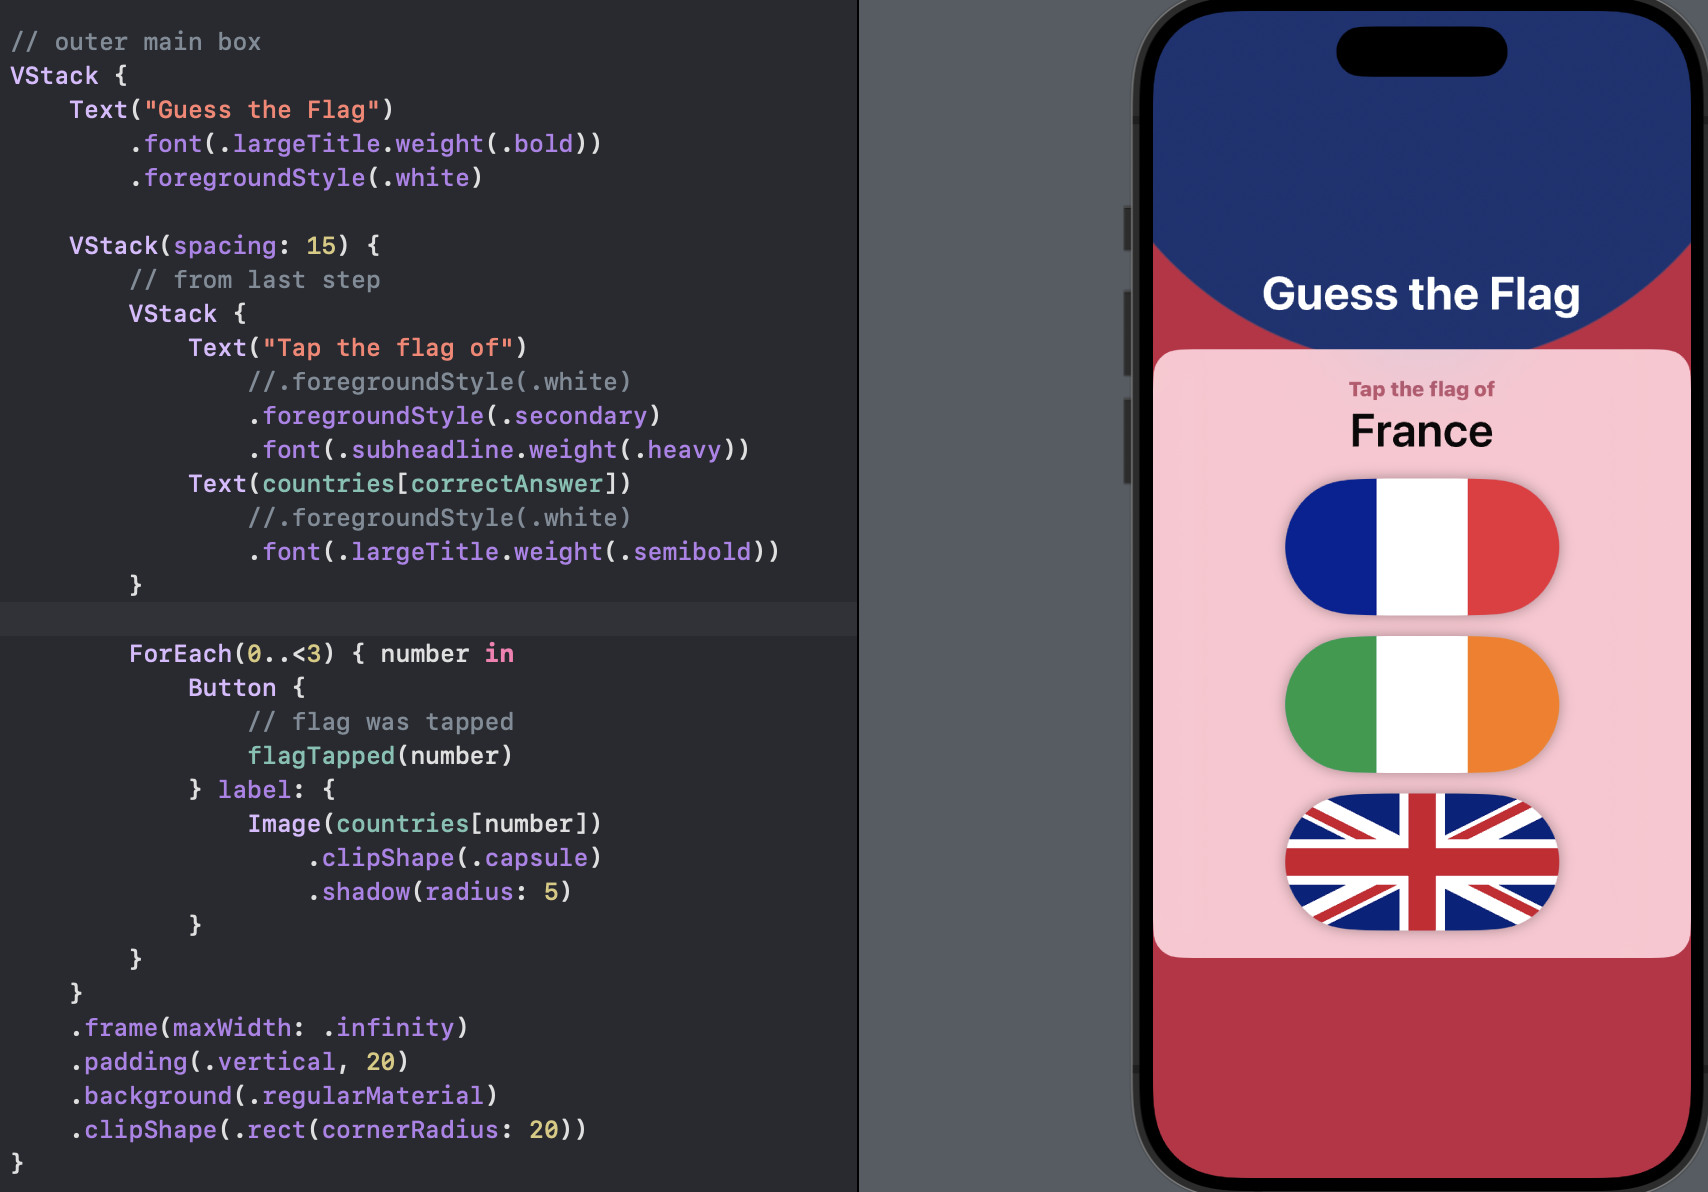
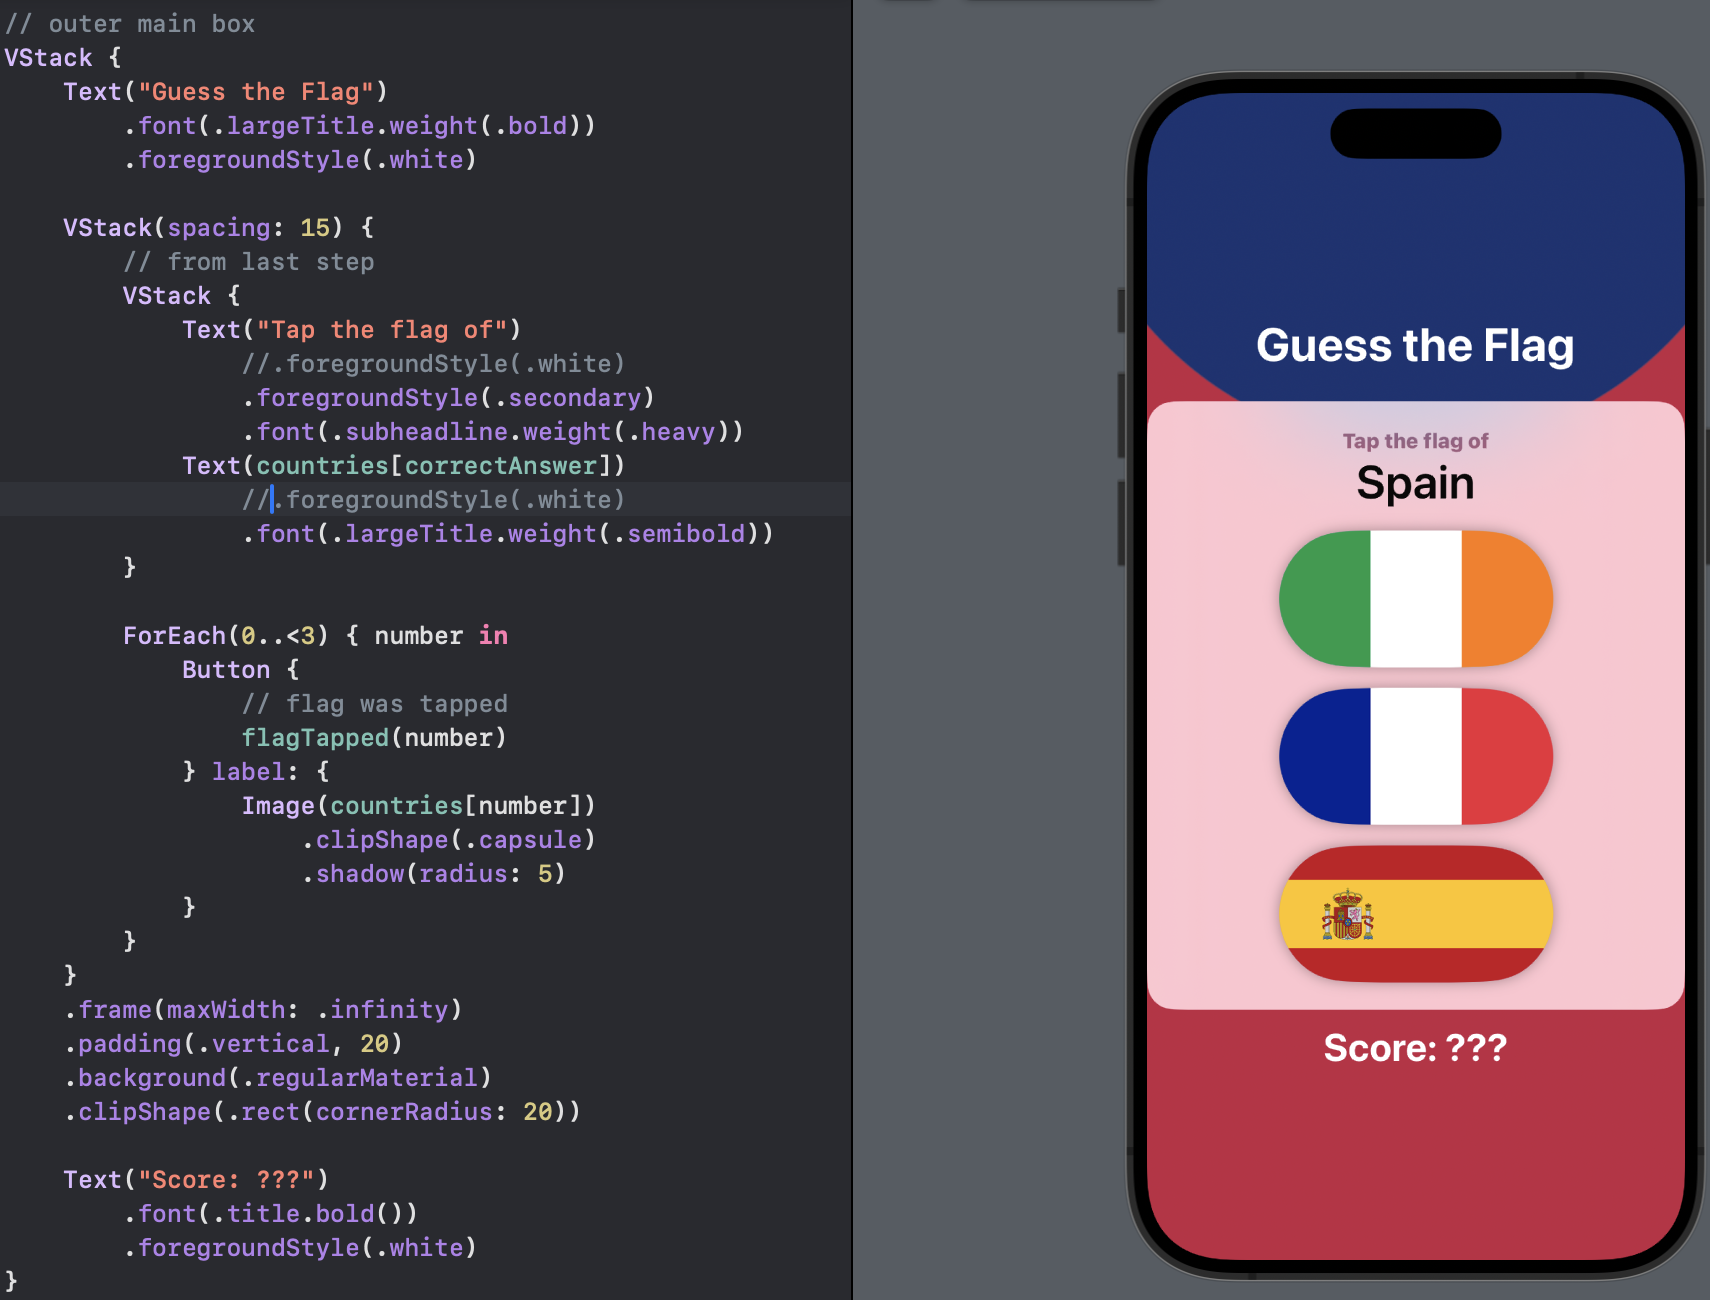
minor fix

diff --git a/100DaysOfSwiftUI/Project-02/Day21/GuessTheFlag/GuessTheFlag/ContentView.swift b/100DaysOfSwiftUI/Project-02/Day21/GuessTheFlag/GuessTheFlag/ContentView.swift
@@ -58,6 +58,10 @@ struct ContentView: View {
                 .padding(.vertical, 20)
                 .background(.regularMaterial)
                 .clipShape(.rect(cornerRadius: 20))
+                
+                Text("Score: ???")
+                    .font(.title.bold())
+                    .foregroundStyle(.white)
             }
         }
         .alert(scoreTitle, isPresented: $showingScore) {

diff --git a/100DaysOfSwiftUI/Project-02/Day21/Day 21 - Project 2, Part 2.md b/100DaysOfSwiftUI/Project-02/Day21/Day 21 - Project 2, Part 2.md
@@ -283,8 +283,6 @@ In preview,
 
 <img src="./imgs/image-shadow.png" />
 
-
-
 ## Upgrading Our Design
 
 We now want something fancier - a radial gradient with custom stops.
@@ -334,8 +332,6 @@ In preview,
 
 This resizes to take up all the horizontal space it needs, adds a little vertical padding, applies a background material so that it stands out from the red-blue gradient the background, and finally clips the whole thing into the shape of a rounded rectangle.
 
-
-
 Next step is to add a title before our main box, and a score placeholder after. This adds another `VStack` around what we have so far:
 
 ```swift
@@ -352,8 +348,28 @@ This adds a new title at the top:
 
 <img src="./imgs/title-box.png" />
 
+Asking for bold fonts is so common that there is a small shortcut: `.font(.largeTitle.bold())` to replace `.font(.largeTitle.weight(.bold))`.
 
+Next we also add a score label at the bottom of the new `VStack`:
 
-We just need a little tweak:
+```swift
+VStack {
+    Text.("Guess the Flag")
+        .font(.largeTitle.weight(.bold))
+        .foregroundStyle(.white)
+
+    // VStack(specing: 15) code
+
+    Text("Score: ???")
+        .font(.title.bold())
+        .foregroundStyle(.white)
+}
+```
+
+In preview,
+
+<img src="./imgs/score-label.png" />
+
+The title and score label look great with white text, but the text inside rounded box does not, and we just need a little tweak:
 
 <img src="./imgs/text-tweak.png" />
